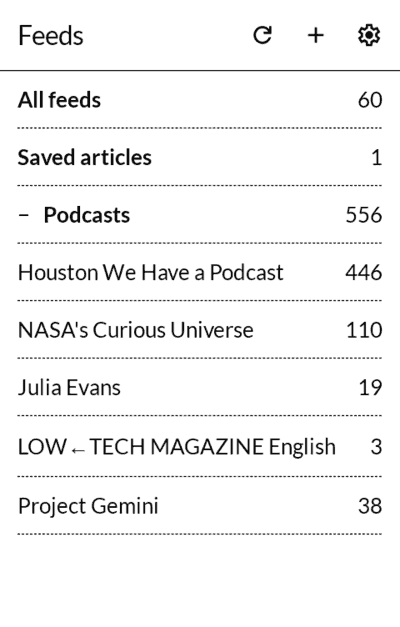
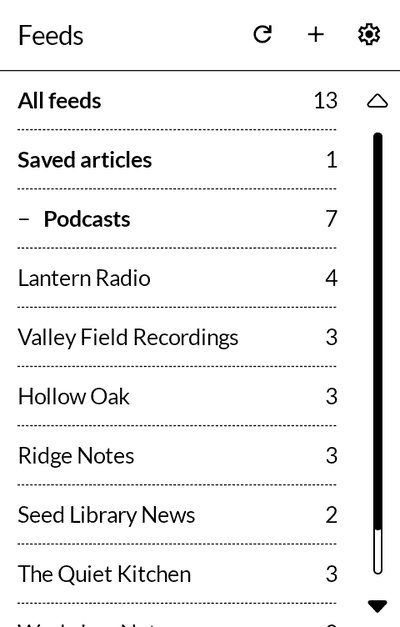
Feeds and Memo cards: pictures retaken with made-up data; Glance: the flashlight

diff --git a/index.html b/index.html
@@ -377,7 +377,7 @@ one and keeps your data.</p>
   <p class="en">Today's events, the weather and what is unread, on the lock screen, from
   <a href="#koyomi">Datebook</a>, <a href="#soramoyo">Sky</a>, <a href="#kotozute">Messaging</a> and
   <a href="#tayori">Mailbox</a>, with pinned notes and the next dose too, in the size you choose.
-  Press a line to open its app; press power twice for the torch.</p>
+  Press a line to open its app; press power twice for the flashlight.</p>
   <p class="ja" lang="ja" hidden>今日の予定、天気、未読を、ロック画面に。<a href="#koyomi">暦</a>・<a href="#soramoyo">空模様</a>・<a href="#kotozute">言伝</a>・<a href="#tayori">便り</a>から。ピン留めしたメモや次の服薬も。文字の大きさは選べる。行を押せば、そのアプリが開く。電源を二度押せばライトが点く。</p>
   <p class="links">
     <a href="https://github.com/wanderwildwood/hitome/releases/latest/download/hitome.apk">Download</a>
@@ -597,7 +597,7 @@ one and keeps your data.</p>
 
 <div class="app" id="kirinuki">
   <img class="shot" src="shots/kirinuki.png" width="400" height="627" loading="lazy"
-       alt="Feeds listing the feeds, the Podcasts folder opened on two NASA podcasts, a gemlog among them">
+       alt="Feeds listing the feeds, the Podcasts folder opened on two podcasts, a gemlog among them">
   <h4>Feeds <button type="button" class="jp" aria-pressed="false" title="日本語で読む">/ 切抜 kirinuki</button></h4>
   <p class="en">Feeds read as plain text, with Gemini, gopher and Spartan alongside, and podcasts played under
   their show notes, marked once heard; fetched on wifi, read with the radio off. The volume keys
@@ -645,7 +645,7 @@ one and keeps your data.</p>
 
 <div class="app" id="oboegaki">
   <img class="shot" src="shots/oboegaki.png" width="400" height="627" loading="lazy"
-       alt="Memo&#x27;s note list, newest first: a pinned Groceries list at the top, then notes filed in Home and Trips folders, with the scan, voice-note and new-note buttons at the side">
+       alt="Memo&#x27;s note list, newest first: a to-do for today at the top, then a pinned Groceries list and notes filed in Home and Trips folders, with the new-note button">
   <h4>Memo <button type="button" class="jp" aria-pressed="false" title="日本語で読む">/ 覚書 oboegaki</button></h4>
   <p class="en">Notes, lists and scanned pages, as plain Markdown on your own Nextcloud or the phone. A shared
   list can be ticked on one phone while added to on another. Voice notes are written down on the
